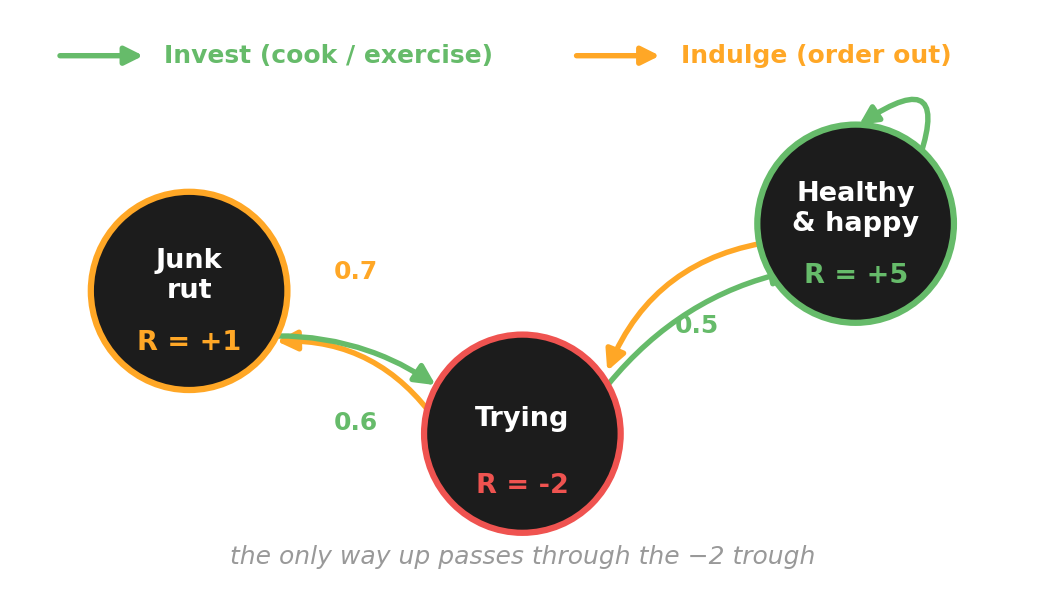
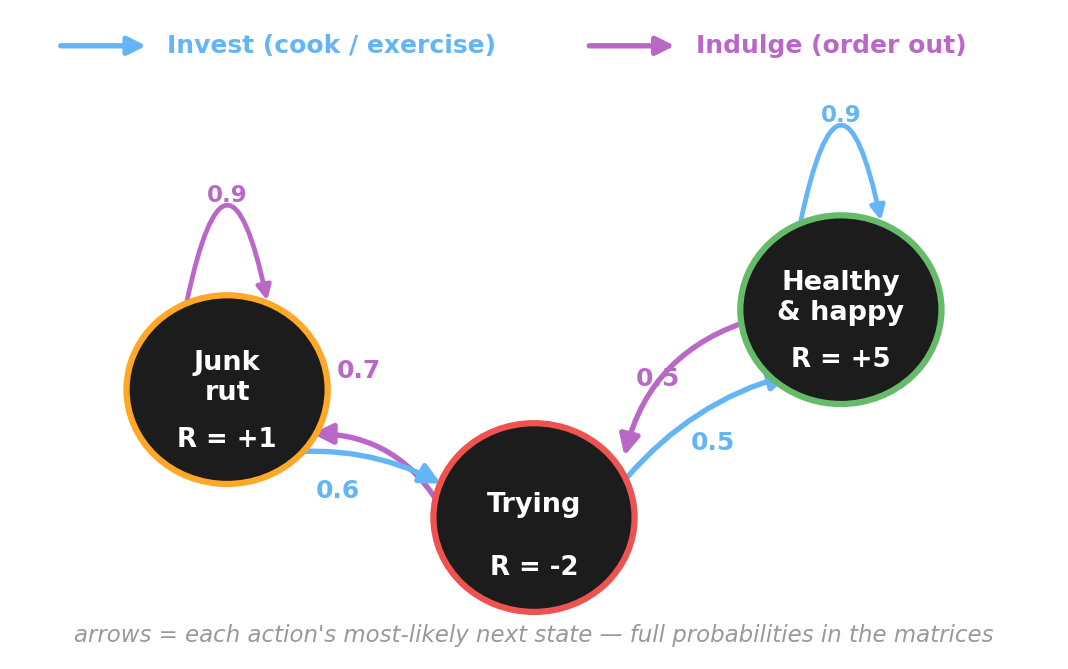
autosync beancupter 2026-06-14T20:30:01+09:00

diff --git a/course/week08_sdt_mdp_rl/make_figures.py b/course/week08_sdt_mdp_rl/make_figures.py
@@ -246,7 +246,7 @@ def fig_chibany_mdp_diagram():
     _arrow(ax, (P[2][0]-0.95, P[2][1]-0.10), (P[1][0]+1.05, P[1][1]+0.72), 0.30, IND, z=1)
     _selfloop(ax, P[0], IND, "0.9")
     ax.text(3.95, 3.35, "0.7", color=IND, fontsize=12, fontweight="bold", ha="center")
-    ax.text(8.55, 3.55, "0.5", color=IND, fontsize=12, fontweight="bold", ha="center")
+    ax.text(7.45, 3.25, "0.5", color=IND, fontsize=12, fontweight="bold", ha="center")
     # legend (action colors)
     ax.add_patch(FancyArrowPatch((0.4, 7.5), (1.5, 7.5), arrowstyle="-|>", mutation_scale=18, lw=2.6, color=INV))
     ax.text(1.7, 7.5, "Invest (cook / exercise)", color=INV, va="center", fontsize=12, fontweight="bold")
@@ -274,8 +274,8 @@ def _matrix(ax, M, title, tcol):
 
 def fig_chibany_transition_matrices():
     fig, (a0, a1) = plt.subplots(1, 2, figsize=(9.0, 3.9))
-    _matrix(a0, CHI_T[0], "Indulge  $T(\\cdot\\,|\\,s,\\,\\mathrm{Indulge})$", ORANGE)
-    _matrix(a1, CHI_T[1], "Invest  $T(\\cdot\\,|\\,s,\\,\\mathrm{Invest})$", GREEN)
+    _matrix(a0, CHI_T[0], "Indulge  $T(\\cdot\\,|\\,s,\\,\\mathrm{Indulge})$", PURPLE)
+    _matrix(a1, CHI_T[1], "Invest  $T(\\cdot\\,|\\,s,\\,\\mathrm{Invest})$", ACCENT)
     fig.tight_layout()
     save(fig, "chibany-transition-matrices.png")
 
@@ -356,12 +356,12 @@ def fig_gamma_sweep_policy():
     # threshold
     thr = gammas[np.argmax(invest == 1)]
     fig, ax = plt.subplots(figsize=(7.6, 4.0))
-    ax.axvspan(0, thr, color=ORANGE, alpha=0.16)
-    ax.axvspan(thr, 0.99, color=GREEN, alpha=0.16)
+    ax.axvspan(0, thr, color=PURPLE, alpha=0.16)
+    ax.axvspan(thr, 0.99, color=ACCENT, alpha=0.16)
     ax.axvline(thr, color=WHITE, lw=2.4, ls="--")
-    ax.text(thr/2, 0.5, "stay in\nthe rut\n(Indulge)", color=ORANGE, ha="center", va="center",
+    ax.text(thr/2, 0.5, "stay in\nthe rut\n(Indulge)", color=PURPLE, ha="center", va="center",
             fontsize=13, fontweight="bold")
-    ax.text((thr+0.99)/2, 0.5, "invest &\nget healthy\n(Invest)", color=GREEN, ha="center", va="center",
+    ax.text((thr+0.99)/2, 0.5, "invest &\nget healthy\n(Invest)", color=ACCENT, ha="center", va="center",
             fontsize=13, fontweight="bold")
     ax.text(thr, 1.04, f"flip at γ ≈ {thr:.2f}", color=WHITE, ha="center", fontsize=12, fontweight="bold")
     ax.set_xlabel("discount factor  γ  (how far Chibany looks ahead)")
